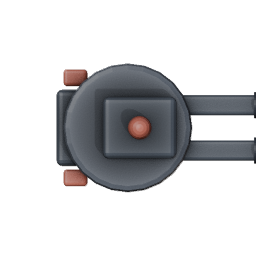
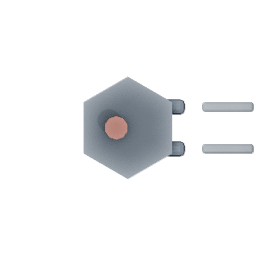
Combat fixes: enemy aim, single-barrel turrets, asteroid ramming
- Enemy/station shots now compensate for shooter velocity and
  target lead — orbiting foes actually hit instead of spraying
  sideways past you (this was why nothing ever landed)
- Ship turrets are single-barrel now (new Blender sprite);
  head loss still kills the block
- Station is a Blender-rendered rotating hub, planet base core
  is a rendered bunker, third asteroid variant for big rocks
- Roamer asteroids fly across the field every ~10-20s — hitting
  one at speed erodes your hull pixels proportional to mass and
  closing speed; ASTEROID IMPACT warning
- Removed the blue team-color square outline on every block —
  ships read as welded hulls, not framed tiles; editor cells and
  roster previews draw sprites too
- First block can be placed anywhere on an empty grid
- Wave cap 6, 50s interval

Generated with [Devin](https://devin.ai)

Changed region(s): [[0.2188, 0.25, 1.0, 0.75]]

diff --git a/void-salvage/prototype/game.js b/void-salvage/prototype/game.js
@@ -33,7 +33,7 @@ const ROSTER = [
 
 // ---------- sprites (rendered via Blender MCP) ----------
 const SPRITES = {};
-for (const k of ['hull', 'hull_b', 'hull_c', 'engine', 'gun_base', 'gun_barrel', 'st_base', 'st_barrel', 'asteroid_a', 'asteroid_b']) {
+for (const k of ['hull', 'hull_b', 'hull_c', 'engine', 'gun_base', 'gun_barrel', 'st_base', 'st_barrel', 'asteroid_a', 'asteroid_b', 'asteroid_c', 'station_core', 'pb_core']) {
   const img = new Image();
   img.src = 'assets/' + k + '.png';
   SPRITES[k] = img;
@@ -58,7 +58,7 @@ let salvage = 0, debris = [], msg = null, reinforced = false;
 const budget = () => BUDGET + salvage;
 let cam = { x: 0, y: 0, zoom: 1 };   // free camera: wheel zoom, RMB/MMB drag pan, F re-center
 let dragging = false, dragLast = null;
-let asteroids = [], pods = [], waveT = 45;
+let asteroids = [], pods = [], waveT = 45, roamerT = 12;
 // ---------- planet mode ----------
 const TIL = 30, PW = 52, PH = 34;     // tile size, map dims
 // tile types: 0 air, 1 dirt, 2 rock, 3 ore, 4 fuel, 5 wall, 6 base-wall
@@ -175,7 +175,7 @@ function editorClick(mx, my) {
     if (grid.flat().filter(Boolean).length > 1) grid[r][c] = null;
     return;
   }
-  if (!hasNeighbor(r, c)) return;
+  if (!hasNeighbor(r, c) && grid.flat().some(Boolean)) return;
   if (gridCost() + TYPES[selected].cost > budget()) return;
   grid[r][c] = selected;
 }
@@ -200,7 +200,7 @@ function blocksFromGrid(g) {
       variant: t === 'hull' ? HULL_VARIANTS[Math.floor(Math.random() * HULL_VARIANTS.length)] : t,
       aim: 0,
       pix: new Uint8Array(BP * BP).fill(1), pixCount: BP * BP,
-      barrels: t === 'turret' ? 2 : 0
+      barrels: t === 'turret' ? 1 : 0
     });
   }
   return blocks;
@@ -272,6 +272,8 @@ function launch() {
   asteroids = [];
   const apos = [[-100, -300], [200, 200], [450, -150], [700, 100], [100, 500], [900, -450], [1200, 350], [1500, -500], [400, -550], [-300, 400]];
   for (const [ax, ay] of apos) asteroids.push(makeAsteroid(ax + rand(-40, 40), ay + rand(-40, 40), rand(26, 58)));
+  spawnRoamer(); spawnRoamer(); // fast movers already on the map
+  roamerT = 14;
   bullets = []; particles = [];
   stars = [];
   for (let j = 0; j < 500; j++)
@@ -279,7 +281,22 @@ function launch() {
 }
 
 function makeAsteroid(x, y, r) {
-  return { x, y, r, spr: Math.random() < 0.5 ? 'asteroid_a' : 'asteroid_b', vx: rand(-8, 8), vy: rand(-8, 8), rot: rand(0, TAU), va: rand(-0.2, 0.2), hp: Math.round(r * 1.6) };
+  const spr = r > 48 ? 'asteroid_c' : (Math.random() < 0.5 ? 'asteroid_a' : 'asteroid_b');
+  return { x, y, r, spr, vx: rand(-8, 8), vy: rand(-8, 8), rot: rand(0, TAU), va: rand(-0.2, 0.2), hp: Math.round(r * 1.6), roamer: false };
+}
+
+// fast mover crossing the field — dodge it or eat pixel damage
+function spawnRoamer() {
+  const side = Math.floor(rand(0, 4));
+  const x = side === 0 ? -900 : side === 1 ? 2800 : rand(-800, 2600);
+  const y = side === 2 ? -1100 : side === 3 ? 1100 : rand(-900, 900);
+  const tx = rand(200, 1600), ty = rand(-400, 400); // crosses the battle zone
+  const a = Math.atan2(ty - y, tx - x), sp = rand(90, 190);
+  const r = rand(16, 64);
+  const ast = makeAsteroid(x, y, r);
+  ast.vx = Math.cos(a) * sp; ast.vy = Math.sin(a) * sp;
+  ast.va = rand(-1.2, 1.2); ast.roamer = true;
+  asteroids.push(ast);
 }
 
 function turretPos(t) {
@@ -397,12 +414,14 @@ function autoFire(s, dt, forced) {
     b.aim = Math.atan2(t.y - p.y, t.x - p.x); // barrel tracks target
     if (b.cd > 0) continue;
     if (dist(p, t) > 640) continue;
-    const lead = (t.vx !== undefined) ? dist(p, t) / 400 : 0;
-    const ax = t.x + (t.vx || 0) * lead, ay = t.y + (t.vy || 0) * lead;
+    const tf = dist(p, t) / 400; // bullet flight time
+    // aim where the target will be, minus our own drift — otherwise orbiting
+    // ships throw every shot sideways past the target
+    const ax = t.x + (t.vx || 0) * tf - s.vx * tf;
+    const ay = t.y + (t.vy || 0) * tf - s.vy * tf;
     b.cd = 0.6;
-    // one shot per barrel — lose a barrel, lose half the dakka
     for (let i = 0; i < b.barrels; i++) {
-      const a = Math.atan2(ay - p.y, ax - p.x) + (i === 0 ? -0.035 : 0.035);
+      const a = Math.atan2(ay - p.y, ax - p.x) + (i === 0 ? -0.035 : 0.035) * Math.min(1, b.barrels - 1);
       bullets.push({ x: p.x, y: p.y, vx: s.vx + Math.cos(a) * 400, vy: s.vy + Math.sin(a) * 400, ttl: 2.0, dmg: 11, team: s.team, splash: 0 });
     }
     particles.push({ x: p.x + Math.cos(b.aim) * 14, y: p.y + Math.sin(b.aim) * 14, vx: rand(-20, 20), vy: rand(-20, 20), ttl: 0.12, max: 0.12, color: '#ffd27f', r: 4 });
@@ -464,17 +483,28 @@ function hitShip(s, b) {
   if (!blk) return;
   b.ttl = 0;
 
-  // impact point in block-local pixel coords
+  erodeBlock(s, blk, b.x, b.y, 5 + Math.floor(rand(0, 5)) + (b.splash || 0) * 7, 1.6 + (b.splash || 0));
+
+  // smart turret damage: chance to shoot the barrel/tower clean off
+  if (s.blocks.includes(blk) && blk.type === 'turret' && blk.barrels > 0 && Math.random() < 0.16) {
+    blk.barrels--;
+    spawnChunk(bpos.x, bpos.y, '#2a3a4a', 4); // the barrel itself flies off
+    explode(bpos.x, bpos.y, '#7fd4ff', 10);
+    if (blk.barrels === 0) blk.pixCount = 1; // turret head gone — block dies
+    checkBlockDead(s, blk);
+  }
+}
+
+// chew pixels out of a block around a world-space point
+function erodeBlock(s, blk, wx0, wy0, want, rr = 1.6) {
+  const bpos = bw(s, blk);
   const c = Math.cos(s.angle), sn = Math.sin(s.angle);
-  const lx = (b.x - bpos.x) * c + (b.y - bpos.y) * sn;
-  const ly = -(b.x - bpos.x) * sn + (b.y - bpos.y) * c;
+  const lx = (wx0 - bpos.x) * c + (wy0 - bpos.y) * sn;
+  const ly = -(wx0 - bpos.x) * sn + (wy0 - bpos.y) * c;
   const px = (lx / CS + 0.5) * BP, py = (ly / CS + 0.5) * BP;
-  const splash = b.splash || 0;
-  const want = 5 + Math.floor(rand(0, 5)) + splash * 7;
-  const rr = 1.6 + splash;
   let removed = 0, tries = 0;
   const dcol = DEBRIS_COL[blk.variant || blk.type] || '#888';
-  explode(b.x, b.y, dcol, 4); // impact sparks in the block's own color
+  explode(wx0, wy0, dcol, 4); // impact sparks in the block's own color
   while (removed < want && tries < 50) {
     tries++;
     const ax = Math.floor(px + rand(-rr, rr)), ay = Math.floor(py + rand(-rr, rr));
@@ -489,21 +519,16 @@ function hitShip(s, b) {
     else
       particles.push({ x: wx, y: wy, vx: rand(-60, 60), vy: rand(-60, 60), ttl: 0.4, max: 0.4, color: dcol, r: 2.5 });
   }
+  checkBlockDead(s, blk);
+}
 
-  // smart turret damage: chance to shoot a barrel clean off
-  if (blk.type === 'turret' && blk.barrels > 0 && Math.random() < 0.16) {
-    blk.barrels--;
-    spawnChunk(bpos.x, bpos.y, '#2a3a4a', 4); // the barrel itself flies off
-    explode(bpos.x, bpos.y, '#7fd4ff', 10);
-    if (blk.barrels === 0) blk.pixCount = 1; // turret head gone — block dies
-  }
-
-  if (blk.pixCount <= Math.floor(BP * BP * 0.2)) { // ~20% left = structurally dead
-    s.blocks = s.blocks.filter(x => x !== blk);
-    explode(bpos.x, bpos.y, s.color, 14);
-    recount(s);
-    if (!s.blocks.length) { s.alive = false; selection.delete(s); explode(s.x, s.y, s.color, 50); }
-  }
+function checkBlockDead(s, blk) {
+  if (blk.pixCount > Math.floor(BP * BP * 0.2)) return;
+  const bpos = bw(s, blk);
+  s.blocks = s.blocks.filter(x => x !== blk);
+  explode(bpos.x, bpos.y, s.color, 14);
+  recount(s);
+  if (!s.blocks.length) { s.alive = false; selection.delete(s); explode(s.x, s.y, s.color, 50); }
 }
 
 function update(dt) {
@@ -560,25 +585,43 @@ function update(dt) {
       const lead = dist(pos, tgt) / 320;
       for (let i = 0; i < t.barrels; i++) {
         const a = Math.atan2(tgt.y + tgt.vy * lead - pos.y, tgt.x + tgt.vx * lead - pos.x) + (i === 0 ? -0.04 : 0.04);
-        bullets.push({ x: pos.x, y: pos.y, vx: Math.cos(a) * 320, vy: Math.sin(a) * 320, ttl: 2.6, dmg: 13, team: 'foe' });
+        bullets.push({ x: pos.x, y: pos.y, vx: Math.cos(a) * 320, vy: Math.sin(a) * 320, ttl: 2.6, dmg: 13, team: 'foe', splash: 0 });
       }
     }
   }
 
-  // asteroids drift; ships can't pass through them
+  // asteroids drift; roamers keep flying in; ships take pixel damage on impact
+  roamerT -= dt;
+  if (roamerT <= 0) { roamerT = rand(9, 18); spawnRoamer(); }
   for (const a of asteroids) {
     a.x += a.vx * dt; a.y += a.vy * dt; a.rot += a.va * dt;
+    if (a.roamer && (a.x < -1400 || a.x > 3400 || a.y < -1500 || a.y > 1500)) { a.dead = true; continue; }
     for (const s of [...allies, ...foes]) {
       if (!s.alive) continue;
       const d = dist(a, s), rr = a.r + s.radius * 0.7;
       if (d < rr && d > 0) {
         const nx = (s.x - a.x) / d, ny = (s.y - a.y) / d;
+        const relV = Math.hypot(s.vx - a.vx, s.vy - a.vy);
+        const closing = Math.max(0, -((s.vx - a.vx) * nx + (s.vy - a.vy) * ny));
         s.x = a.x + nx * rr; s.y = a.y + ny * rr;
-        const push = Math.max(0, -(s.vx * nx + s.vy * ny));
-        s.vx += nx * push * 0.8; s.vy += ny * push * 0.8;
+        s.vx += nx * closing * 0.9; s.vy += ny * closing * 0.9;
+        // rock hits hull: mass * impact speed -> pixel damage on the struck blocks
+        if (relV > 50 && !a.cool) {
+          a.cool = 0.3;
+          const hits = Math.min(3, 1 + Math.floor((relV - 50) / 90) + Math.floor(a.r / 40));
+          for (let k = 0; k < hits; k++) {
+            let blk = null, bd = 1e9;
+            for (const bl of s.blocks) { const p = bw(s, bl), dd = Math.hypot(a.x - p.x, a.y - p.y); if (dd < bd) { bd = dd; blk = bl; } }
+            if (blk) erodeBlock(s, blk, a.x + rand(-10, 10), a.y + rand(-10, 10), 2 + Math.floor(rand(0, 3)));
+          }
+          explode(a.x, a.y, '#8a8f9a', 8);
+          if (s === allies[0] || allies.includes(s)) msg = { text: 'ASTEROID IMPACT', t: 1.5 };
+        }
       }
     }
+    if (a.cool) a.cool -= dt;
   }
+  asteroids = asteroids.filter(a => !a.dead);
 
   for (const b of bullets) {
     b.x += b.vx * dt; b.y += b.vy * dt; b.ttl -= dt;
@@ -636,8 +679,8 @@ function update(dt) {
   // attack waves while the station lives — pressure to keep pushing
   if (!won && station.coreHp > 0) {
     waveT -= dt;
-    if (waveT <= 0 && foes.filter(f => f.alive).length < 8) {
-      waveT = 40;
+    if (waveT <= 0 && foes.filter(f => f.alive).length < 6) {
+      waveT = 50;
       const w = makeShip(gridFromList([[4,3,'engine'],[4,4,'hull'],[4,5,'turret'],[5,4,'hull']]), station.x + rand(-160, 160), station.y + rand(-260, 260), 'foe', '#ff8a7a');
       w.role = 'interceptor';
       foes.push(w);
@@ -696,9 +739,7 @@ function drawEditor() {
       else { ctx.fillStyle = TYPES[t].color; ctx.fillRect(x + 1, y + 1, gs.s - 2, gs.s - 2); }
       if (t === 'turret' && sprReady(SPRITES.gun_barrel)) ctx.drawImage(SPRITES.gun_barrel, x + 1, y + 1, gs.s - 2, gs.s - 2);
     }
-    ctx.strokeStyle = t ? TYPES[t].edge : '#1a2438';
-    ctx.lineWidth = t ? 2 : 1;
-    ctx.strokeRect(x + 1, y + 1, gs.s - 2, gs.s - 2);
+    if (!t) { ctx.strokeStyle = '#1a2438'; ctx.lineWidth = 1; ctx.strokeRect(x + 1, y + 1, gs.s - 2, gs.s - 2); }
   }
 
   // palette
@@ -734,11 +775,12 @@ function drawEditor() {
     ctx.fillRect(rc.x, rc.y, rc.w, rc.h);
     ctx.strokeStyle = sel ? '#9dff8a' : '#1a2438'; ctx.lineWidth = sel ? 2 : 1;
     ctx.strokeRect(rc.x, rc.y, rc.w, rc.h);
-    // mini layout preview
+    // mini layout preview — sprites, not colored squares
     for (const [rr, cc, t] of r.g) {
       const mx = rc.x + 8 + (cc - 1) * 11, my = rc.y + 10 + (rr - 2) * 11;
-      ctx.fillStyle = TYPES[t].color;
-      ctx.fillRect(mx, my, 9, 9);
+      const spr = t === 'turret' ? SPRITES.gun_base : SPRITES[t];
+      if (sprReady(spr)) ctx.drawImage(spr, mx, my, 10, 10);
+      else { ctx.fillStyle = TYPES[t].color; ctx.fillRect(mx, my, 9, 9); }
     }
     ctx.fillStyle = sel ? '#9dff8a' : '#8aa0c8'; ctx.font = 'bold 13px monospace';
     ctx.fillText(r.name, rc.x + 60, rc.y + 26);
@@ -793,20 +835,12 @@ function drawShip(s) {
         ctx.fillRect((i % BP) * ps - CS / 2, Math.floor(i / BP) * ps - CS / 2, ps + 0.6, ps + 0.6);
       }
     }
-    ctx.strokeStyle = s.color; ctx.lineWidth = 1;
-    ctx.strokeRect(-CS / 2 + 0.5, -CS / 2 + 0.5, CS - 1, CS - 1);
     ctx.restore();
-    // rotating barrels — clipped when a barrel got shot off
+    // rotating single barrel — head loss kills the block outright
     if (b.type === 'turret' && b.barrels > 0) {
       ctx.save();
       ctx.translate(p.x, p.y); ctx.rotate(b.aim);
-      if (sprReady(SPRITES.gun_barrel)) {
-        if (b.barrels === 2) ctx.drawImage(SPRITES.gun_barrel, -CS / 2, -CS / 2, CS, CS);
-        else {
-          ctx.beginPath(); ctx.rect(-CS / 2, -CS / 2, CS, CS * 0.62); ctx.clip();
-          ctx.drawImage(SPRITES.gun_barrel, -CS / 2, -CS / 2, CS, CS);
-        }
-      }
+      if (sprReady(SPRITES.gun_barrel)) ctx.drawImage(SPRITES.gun_barrel, -CS / 2, -CS / 2, CS, CS);
       ctx.restore();
     }
   }
@@ -864,16 +898,15 @@ function draw() {
     ctx.restore();
   }
 
-  // station
+  // station — Blender-rendered hub, slowly rotating
   ctx.save();
   ctx.translate(station.x, station.y);
   const shielded = station.turrets.some(t => t.alive);
-  ctx.strokeStyle = shielded ? '#6e5aff' : '#c8a2ff'; ctx.lineWidth = 3; ctx.fillStyle = '#0d1426';
-  ctx.beginPath();
-  for (let i = 0; i < 6; i++) { const a = i / 6 * TAU; i ? ctx.lineTo(Math.cos(a) * station.r, Math.sin(a) * station.r) : ctx.moveTo(Math.cos(a) * station.r, Math.sin(a) * station.r); }
-  ctx.closePath(); ctx.fill(); ctx.stroke();
-  if (shielded) { ctx.strokeStyle = 'rgba(110,90,255,0.35)'; ctx.beginPath(); ctx.arc(0, 0, station.r + 34, 0, TAU); ctx.stroke(); }
-  ctx.fillStyle = '#c8a2ff'; ctx.beginPath(); ctx.arc(0, 0, 18, 0, TAU); ctx.fill();
+  if (shielded) { ctx.strokeStyle = 'rgba(110,90,255,0.35)'; ctx.lineWidth = 3; ctx.beginPath(); ctx.arc(0, 0, station.r + 34, 0, TAU); ctx.stroke(); }
+  ctx.rotate(time * 0.08);
+  const sd = station.r * 2.6;
+  if (sprReady(SPRITES.station_core)) ctx.drawImage(SPRITES.station_core, -sd / 2, -sd / 2, sd, sd);
+  else { ctx.fillStyle = '#0d1426'; ctx.beginPath(); ctx.arc(0, 0, station.r, 0, TAU); ctx.fill(); }
   ctx.restore();
 
   for (const t of station.turrets) {
@@ -1291,13 +1324,12 @@ function pDraw() {
     ctx.fillStyle = '#ff8a7a'; ctx.fillRect(p.x - 12, p.y - 20, 24 * t.hp / t.maxHp, 3);
   }
 
-  // base core
+  // base core — Blender-rendered bunker
   if (pcore.alive) {
     const p = tpos(pcore);
-    ctx.save(); ctx.translate(p.x, p.y); ctx.rotate(Math.PI / 4);
-    ctx.fillStyle = '#2a1a4a'; ctx.strokeStyle = '#c8a2ff'; ctx.lineWidth = 2;
-    ctx.fillRect(-16, -16, 32, 32); ctx.strokeRect(-16, -16, 32, 32);
-    ctx.fillStyle = '#c8a2ff'; ctx.fillRect(-6, -6, 12, 12);
+    ctx.save(); ctx.translate(p.x, p.y);
+    if (sprReady(SPRITES.pb_core)) ctx.drawImage(SPRITES.pb_core, -26, -26, 52, 52);
+    else { ctx.fillStyle = '#2a1a4a'; ctx.fillRect(-16, -16, 32, 32); }
     ctx.restore();
     ctx.fillStyle = '#222'; ctx.fillRect(p.x - 16, p.y - 30, 32, 4);
     ctx.fillStyle = '#c8a2ff'; ctx.fillRect(p.x - 16, p.y - 30, 32 * pcore.hp / pcore.maxHp, 4);
